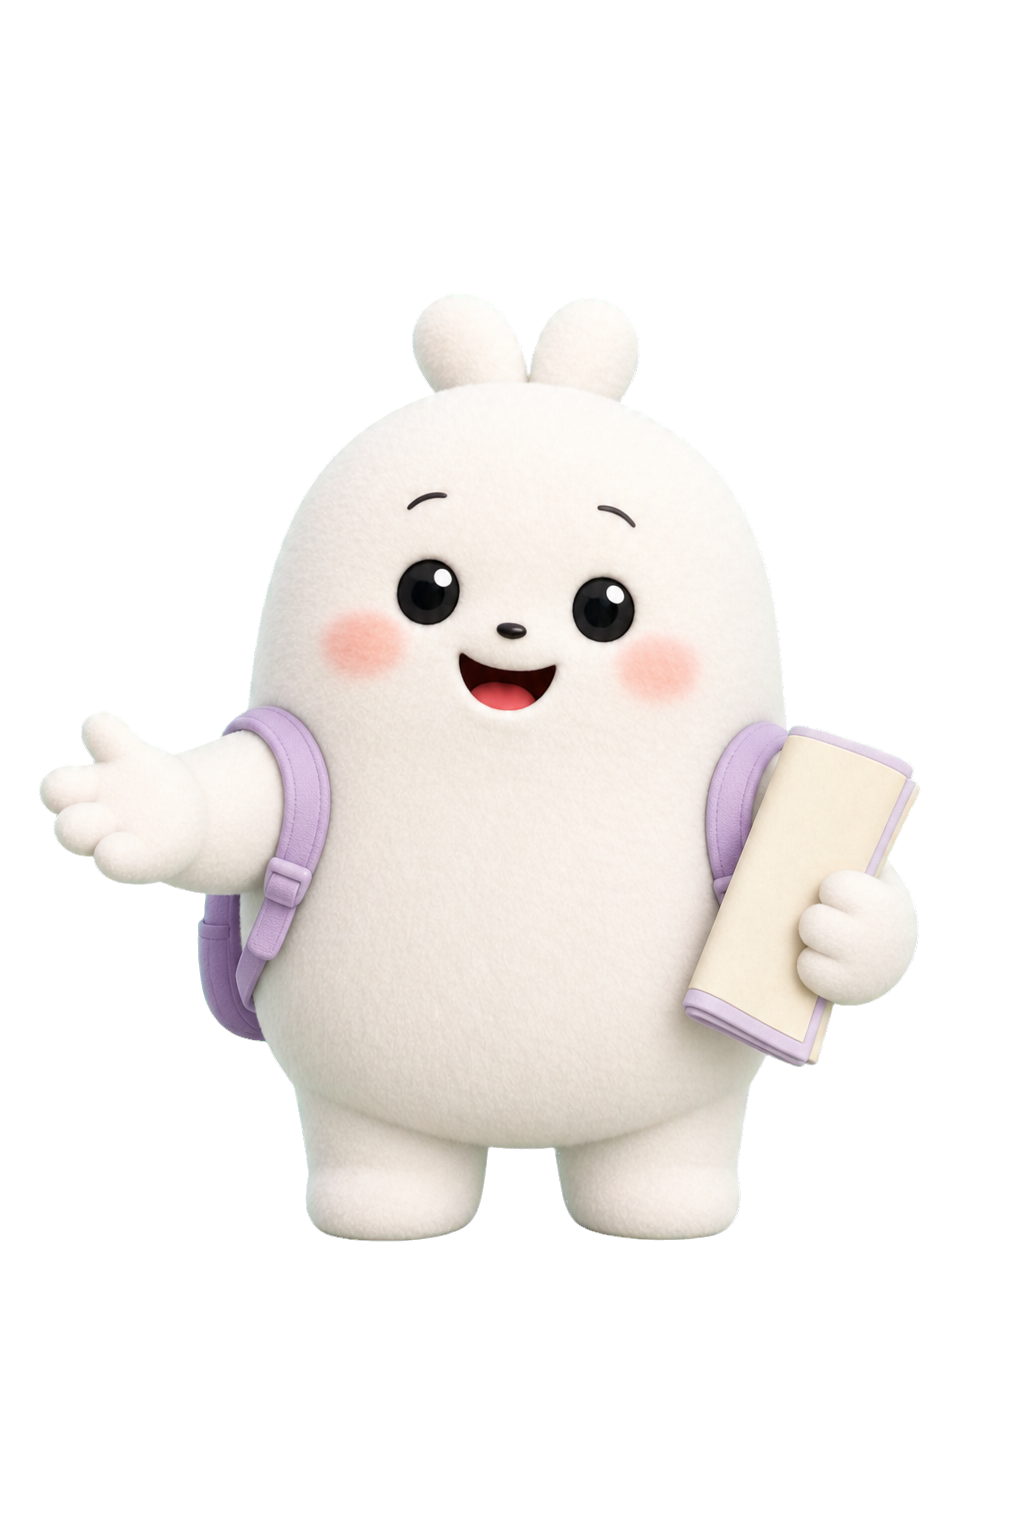
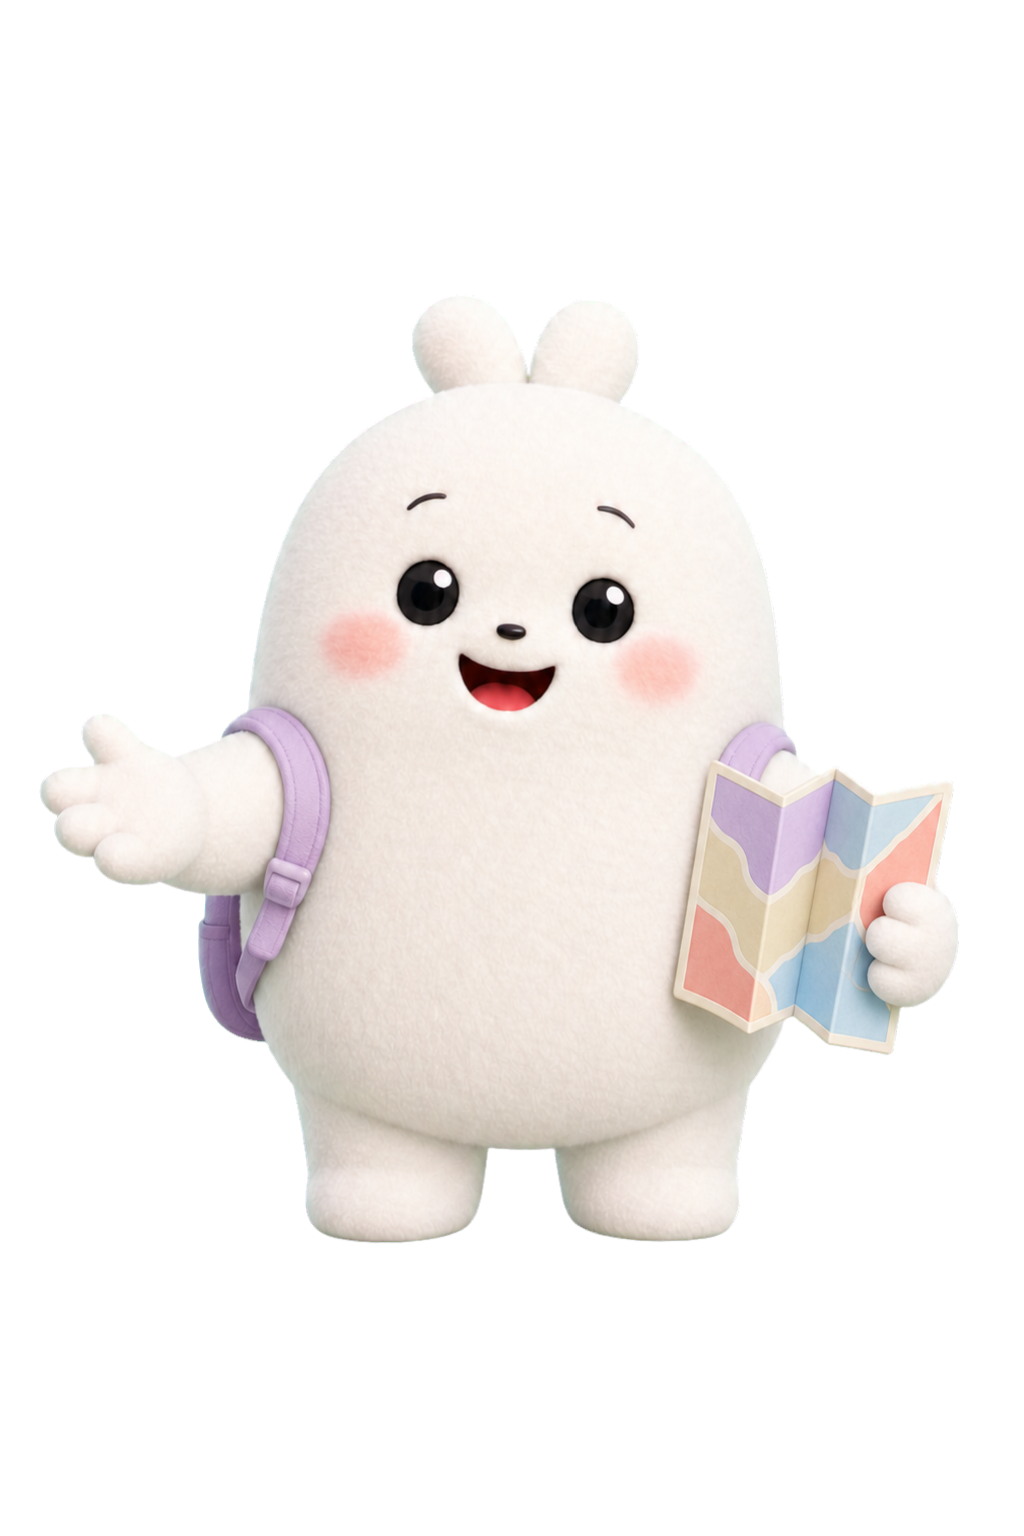
fix(website): clarify BuBu journey map

Changed region(s): [[0.6562, 0.4688, 0.9375, 0.7188], [0.5938, 0.375, 0.625, 0.4062], [0.5, 0.4062, 0.5312, 0.4375]]

diff --git a/apps/learnbox-website/app/components/landing/LandingExperience.tsx b/apps/learnbox-website/app/components/landing/LandingExperience.tsx
@@ -392,7 +392,7 @@ export function LandingExperience() {
           <Image
             className="bubu bubu--finale"
             src={themedBubu.finale}
-            alt="BuBu، همراه مسیر، در حال دعوت به شروع یادگیری"
+            alt="BuBu، همراه مسیر، با نقشهٔ تاشده در حال دعوت به شروع یادگیری"
             width={1024}
             height={1536}
             loading="lazy"
